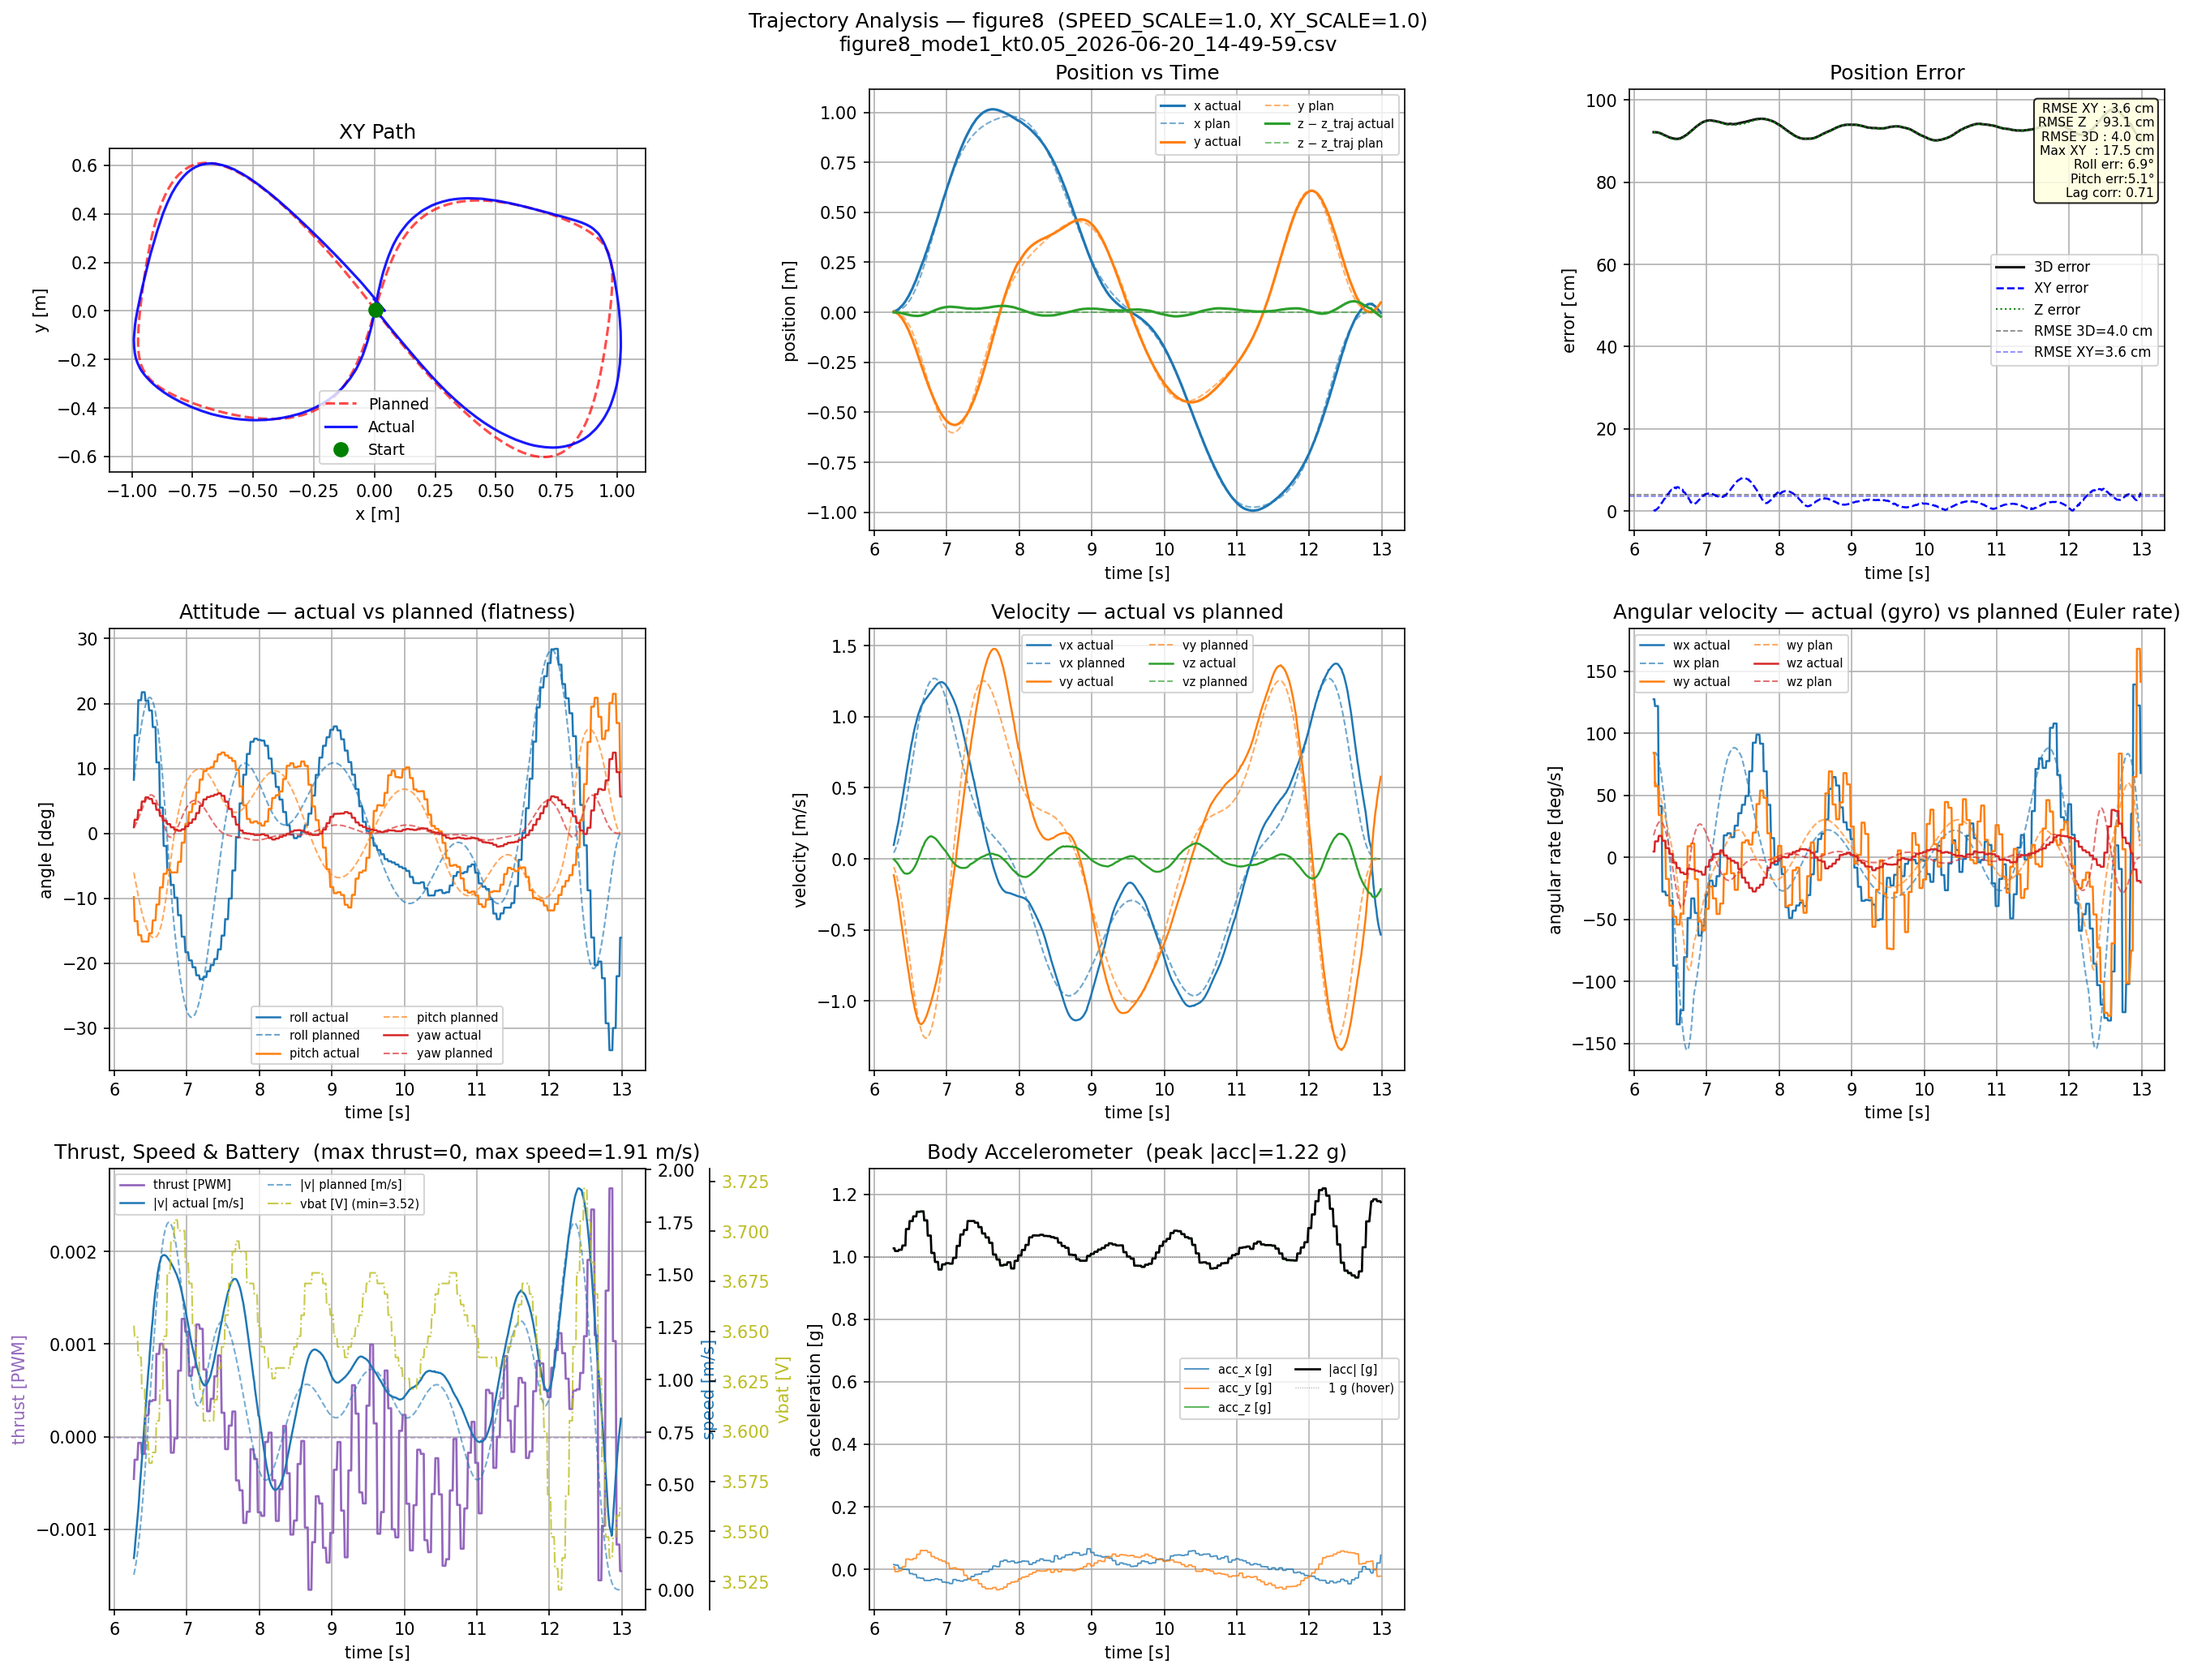
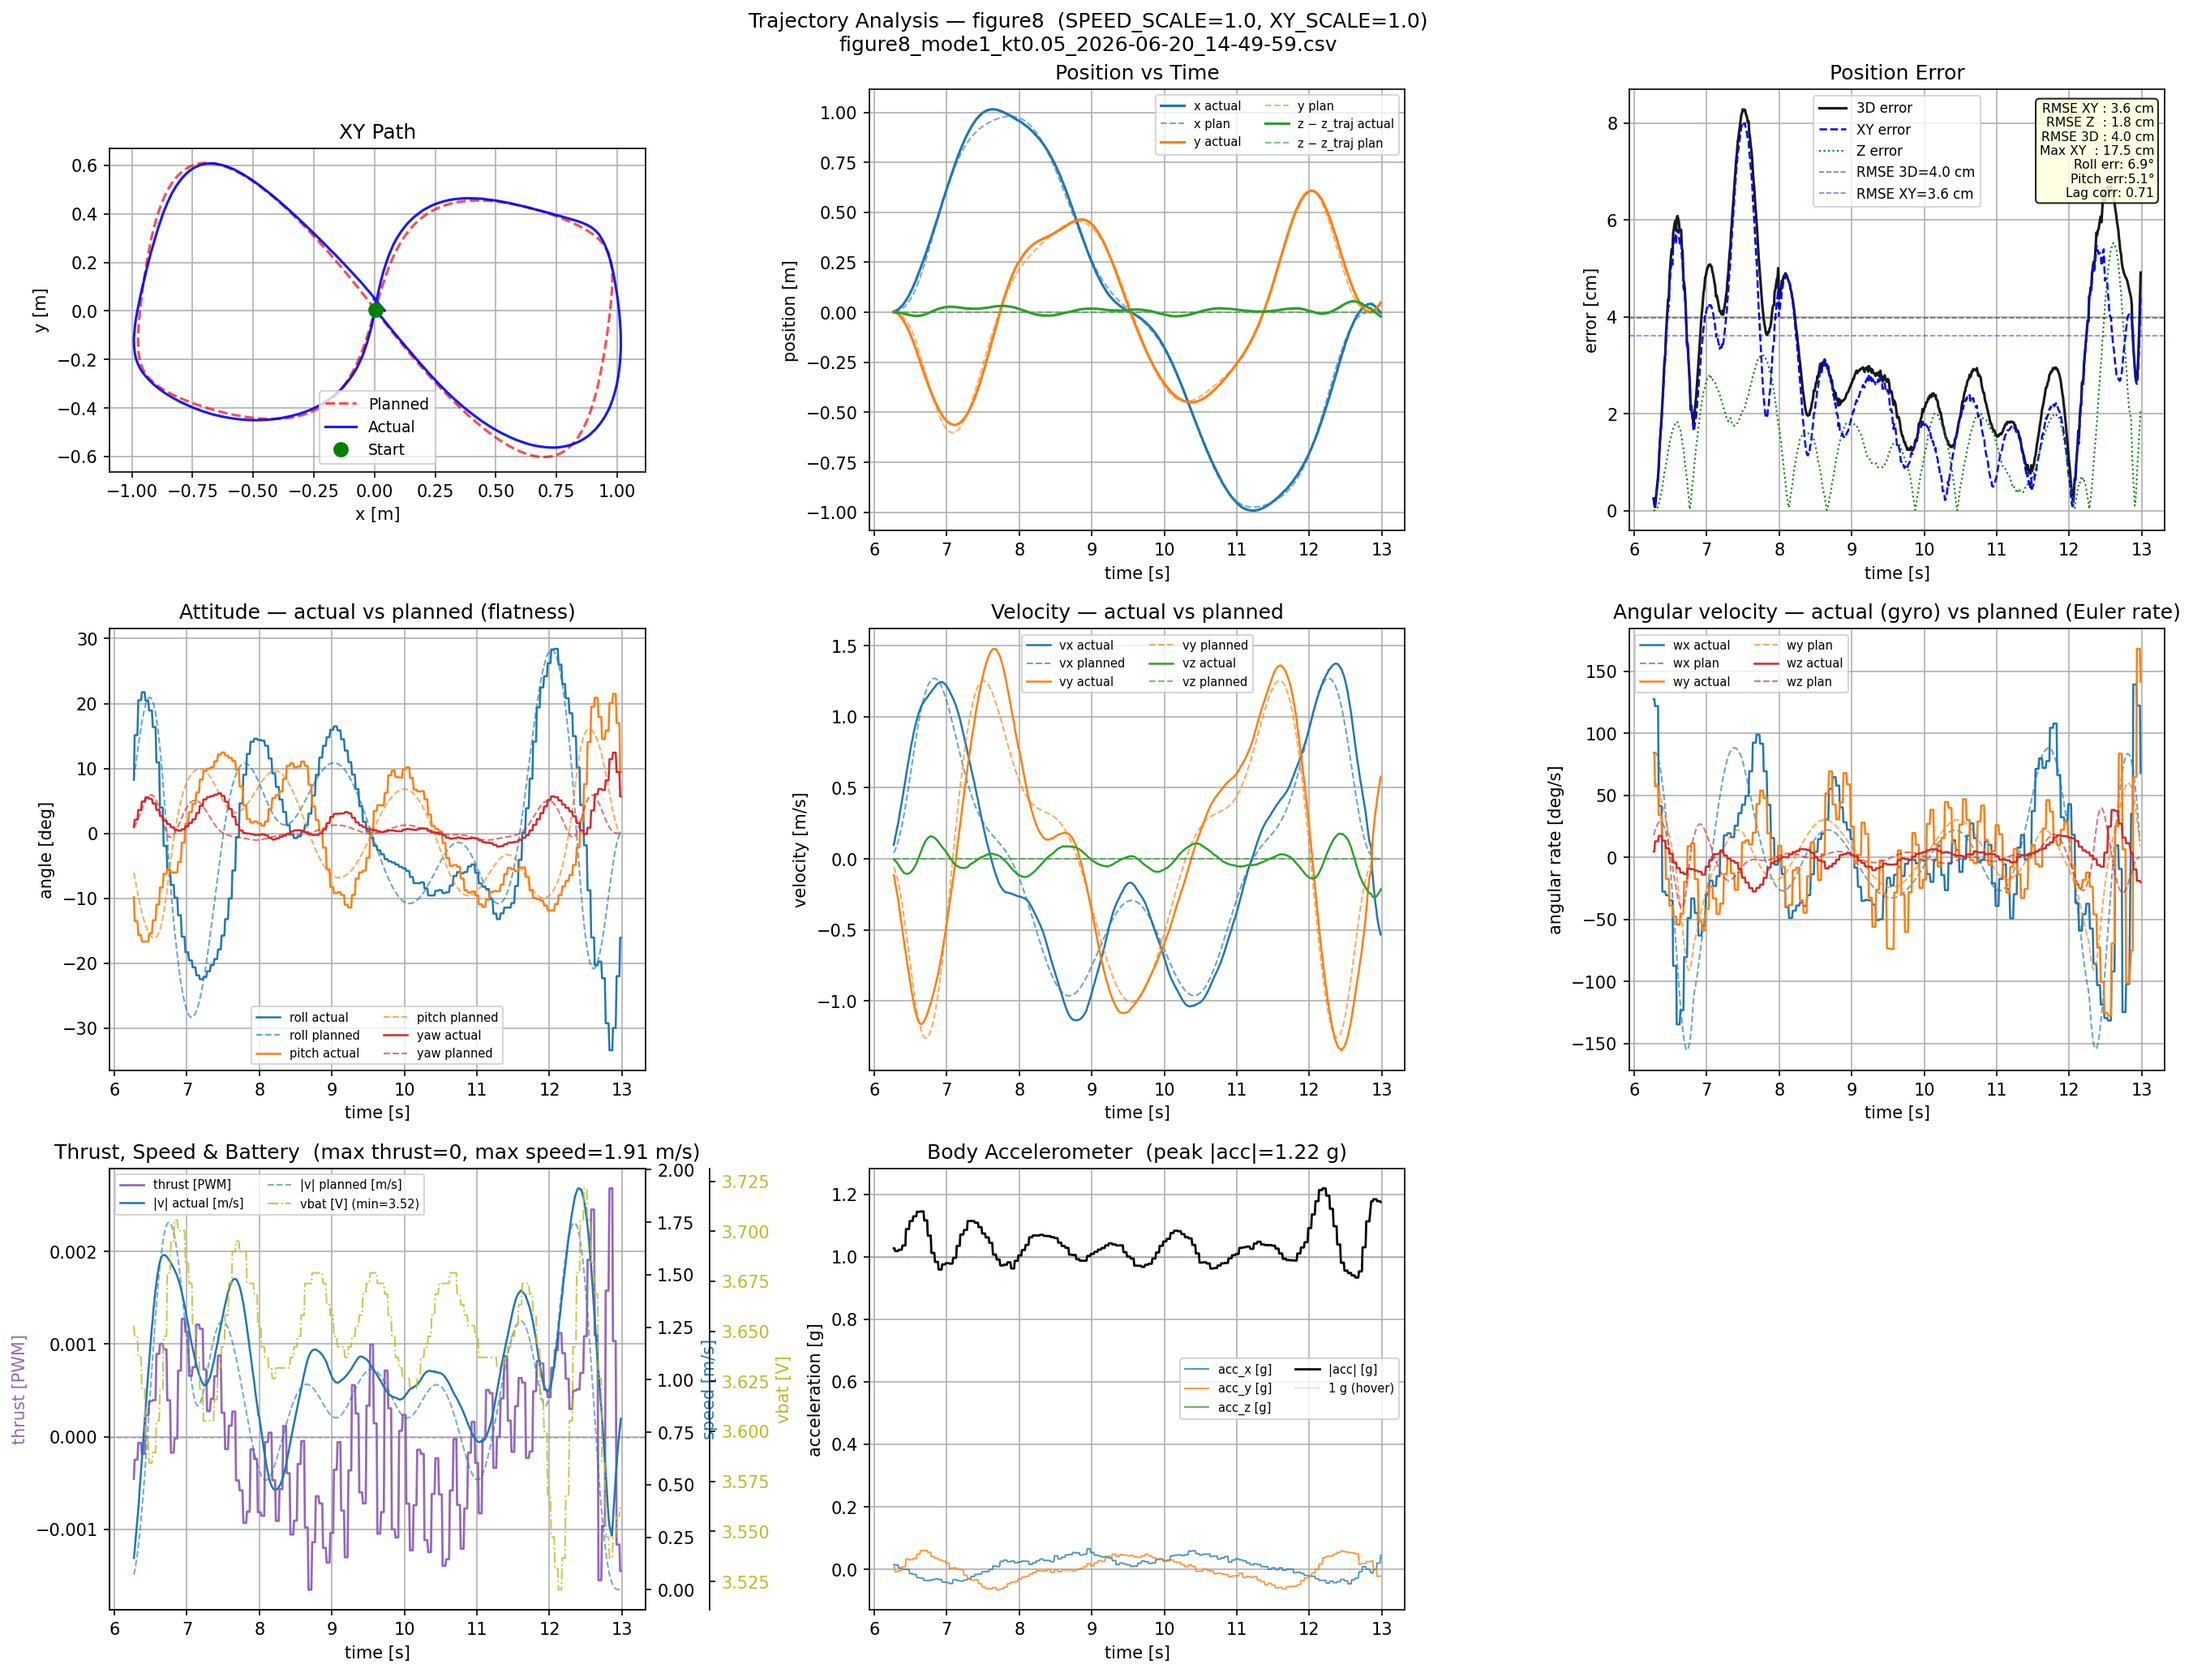
update doc

Changed region(s): [[0.7145, 0.062, 0.9941, 0.3102]]

diff --git a/Controls/analyze_flight.py b/Controls/analyze_flight.py
@@ -2135,14 +2135,18 @@ def load_csv_with_meta(path):
 
 # ── Metrics ─────────────────────────────────────────────────────────────────
 
-def compute_metrics(data, plan, plan_vel, planned_att_arr):
+def compute_metrics(data, plan, plan_vel, planned_att_arr, z0=None):
     """Return a dict of tracking quality metrics.
 
     Z error uses relative coordinates (poly4d is relative_position=True):
     err_z = |(z_actual − z_start) − pz_planned|
+
+    z0: trajectory-start height. If None, falls back to data["z"][0] (correct when
+    data is already cropped to the trajectory window; wrong for full-log data).
     """
     px, py, pz_rel = plan[:, 0], plan[:, 1], plan[:, 2]
-    z0 = data["z"][0]
+    if z0 is None:
+        z0 = data["z"][0]
     err_xy = np.sqrt((data["x"] - px) ** 2 + (data["y"] - py) ** 2)
     err_z  = np.abs((data["z"] - z0) - pz_rel)
     err_3d = np.sqrt(err_xy ** 2 + err_z ** 2)
@@ -3451,11 +3455,9 @@ def plot_analysis(
         _tstart_idx = 0
     z0_act = data["z"][_tstart_idx]
 
-    # Errors — Z uses relative coords (poly4d is relative_position=True).
-    # Shift data["z"] so z=0 at trajectory start to avoid inflated Z error trace
-    # on full-log window that includes takeoff/landing.
-    data_z_shifted = {**data, "z": data["z"] - z0_act}
-    m_full = compute_metrics(data_z_shifted, plan, plan_vel, planned_att)
+    # Pass z0_act explicitly so err_z is relative to trajectory-start height across
+    # the full log (including the pre-trajectory takeoff ramp).
+    m_full = compute_metrics(data, plan, plan_vel, planned_att, z0=z0_act)
     # Build the metrics dict used for display:
     #   - Scalar stats (RMSE, max, …) come from metrics_override (lap-window) when provided,
     #     so the plot box matches the printed comparison table exactly.

diff --git a/flying_drone_stack/docs/results_2026-06-20.md b/flying_drone_stack/docs/results_2026-06-20.md
@@ -179,35 +179,55 @@ This section documents the objective per-subplot findings for presentation and f
 
 ### 7e. INDI Inner Loop Dashboard (`_indi_dashboard.png`)
 
+**What this figure is**: A 3×3 overview of the INDI inner loop during the full flight. Each column is one body axis (X=roll, Y=pitch, Z=yaw). Source: `analyze_indi.py`.
+
 ![](figure8_mode1_kt0.05_2026-06-20_14-49-59_indi_dashboard.png)
 
-**Row 0 — Attitude** — Same as analysis panel 4; roll and pitch match the expected flight envelope. The INDI dashboard adds context: attitude is well-regulated and does not show oscillation, confirming the Routh stability margin (ζ=1.34 at these gains) is adequate.
+**Row 0 — Attitude (roll / pitch / yaw)** — Full-flight attitude time series from the EKF. Roll and pitch stay within the expected ±30° figure-8 envelope; no oscillation is visible, confirming the Routh stability margin (ζ=1.34) is adequate. The title shows RMS and peak values over the flight window.
 
-**Row 1 — INDI Torque (tau_x/y/z)** — Tau values during INDI-active flight are physically correct: RMS ~1.4 mNm (roll), ~0.8 mNm (pitch), ~0.2 mNm (yaw), peak ≤ 2.5 mNm — consistent with CF2.1 motor geometry. The log starts with a 2.7 s stale period (initial tau from the previous power-on, shaded orange) which is correctly excluded from all statistics by the analysis. After the stale period clears, peaks at the crossing-point turns correspond to the highest angular acceleration demand, and tau_z (yaw) remains much smaller than tau_x/y as expected. Saturation 0% across all axes — substantial headroom for gain increases.
+**Row 1 — INDI Commanded Torque (τ_x / τ_y / τ_z)** — The torque output of the INDI inner loop for each axis, in N·m. This is what the INDI law sends to the motor mixer every 500 Hz control cycle. The title shows the RMS over the valid flight window and the saturation percentage (how often tau hit the estimated motor torque limit).
+- The first ~2.7 s are shaded orange: this is a "stale tau" period where tau holds the value from the previous power-on and is not yet under active INDI control. All statistics exclude this period.
+- RMS values (≈1.4 / 0.8 / 0.2 mN·m for roll/pitch/yaw) are physically plausible for a 36 g drone.
+- Saturation = 0% — the INDI torque is well within motor capability; gains can be raised further.
+- Peaks at the crossing-point of the figure-8 correspond to the highest angular acceleration demand. tau_z (yaw) is much smaller than tau_x/y as expected (yaw demands during a figure-8 are minimal).
 
-**Row 2 — Angular Acceleration Filter (alp_raw vs alp)** — The fc_bw=70 Hz Butterworth shows essentially no noise reduction in amplitude (alp_raw and alp overlap almost perfectly, std≈10.6 rad/s² both). This is expected: the meaningful angular acceleration signal during figure-8 flight is mostly below 3 Hz (the figure-8 lobe frequency), while 70 Hz is still well above the signal content. The filter's main role is to suppress the gyro differentiation noise above 70 Hz which is hard to see at 20 Hz log rate — the filter IS working at the 500 Hz control rate, just invisible in the 20 Hz log.
+**Row 2 — Angular Acceleration Filter (alp_raw vs alp)** — Angular acceleration is computed by finite-differencing the gyro signal and then low-pass filtered at fc_bw=70 Hz. This row compares the raw (pre-filter) and filtered signals over the hover calibration window. The title shows noise reduction in dB and filter lag in ms.
+- `alp_raw` and `alp` overlap almost perfectly because the 20 Hz log rate cannot show the high-frequency noise that exists at the 500 Hz control rate — the filter IS attenuating above 70 Hz, it is simply invisible in a 20 Hz log.
+- The dB noise reduction number comes from comparing the power spectral density of alp_raw vs alp over the hover window.
+- Lag ≈ 2–3 ms at 70 Hz — negligible compared to the 40–50 ms motor response lag.
 
 ---
 
 ### 7f. INDI Alignment Panel (`_indi_panel.png`)
 
+**What this figure is**: A direct comparison of the torque the INDI law commanded (τ_cmd, orange) vs what the drone actually produced as measured via angular acceleration (J·α_meas, green). Tests the core INDI assumption that τ_prev ≈ J·α_meas. Source: `analyze_indi.py`.
+
 ![](figure8_mode1_kt0.05_2026-06-20_14-49-59_indi_panel.png)
 
-**tau_cmd vs J·α_meas (X, Y, Z)** — This panel tests the core INDI assumption: that the torque commanded in the previous step (tau_prev) equals J × alpha_meas in the current step. The absolute scale comparison between the two signals is not reliable (tau is logged in uncalibrated units), but the lag measurement is shape-based (cross-correlation) and scale-independent: the motor response lag is approximately 40–50 ms (tau leads J·alp by this amount), confirming the hardware ceiling identified during the gains sweep. Reducing this lag would require lower-inertia motors or a faster ESC protocol (e.g., DSHOT instead of PWM) — not achievable on CF2.1 standard hardware. The RMS delta (mismatch between commanded and measured torque) is the residual INDI error; the small value relative to the signal amplitude confirms INDI is closing the loop effectively despite the motor lag.
+**Rows 0–2 — τ_cmd vs J·α_meas for X (roll) / Y (pitch) / Z (yaw)**
+- Orange line = τ_cmd: torque commanded by INDI in the previous timestep (τ_prev).
+- Green line = J·α_meas: moment-of-inertia times the measured angular acceleration this timestep — what the drone actually did.
+- Shaded area = the difference (τ_cmd − J·α_meas), i.e. the INDI residual error.
+- **Lag** (title): the orange line leads the green by ~40–50 ms. This is the motor spin-up delay — motors take 40–50 ms to reach the commanded RPM, so angular acceleration lags the torque command by this amount. This is the fundamental hardware ceiling: reducing it would require DSHOT or brushless upgrade.
+- **r** (title): cross-correlation coefficient. r≈0.9 means the shapes match well despite the lag.
+- **RMS(delta)** (title): residual INDI error in mN·m. Small relative to signal amplitude — INDI is effectively compensating for disturbances despite the motor lag.
+- Note: the absolute scale difference between orange and green is not physically meaningful (τ is in firmware units while J·α is in N·m); lag and RMS delta are shape-based and scale-independent.
 
-**KT sanity row (thrust vs weight)** — RPM-derived total thrust vs weight confirms the kt1–kt4 identification is reasonable: at hover, Σkt·RPM² ≈ drone weight (36.4 × 9.81 = 357 mN). Any significant deviation here would indicate a KT calibration error that would undermine INDI's torque model.
+**Row 3 — KT Sanity Check (thrust vs weight)** — RPM-derived total thrust (Σkt·RPM²) compared against the drone's weight (36.4 g × 9.81 = 357 mN). At hover, total thrust should equal weight. The title reports the percentage deviation and flags if the kt calibration is outside ±15%. Any significant error here would undermine INDI's torque model since tau depends on the per-motor kt values.
 
 ---
 
 ### 7g. Linear Acceleration Comparison (`_indi_accel.png`)
 
+**What this figure is**: World-frame linear acceleration from two independent sources — the IMU (accelerometer rotated to world frame, gravity removed) vs the EKF (numerical derivative of velocity). Agreement validates that the IMU axis alignment and the EKF state are consistent. Source: `analyze_indi.py`.
+
 ![](figure8_mode1_kt0.05_2026-06-20_14-49-59_indi_accel.png)
 
-**X (forward)** — RMS gap = 0.43 m/s²: a_imu and a_ekf agree well in both sign and shape after the pitch sign convention fix. Residual gap is mostly high-frequency IMU noise and EKF smoothing (EKF uses a Kalman smoother that inherently low-passes the velocity estimate). Good X agreement confirms the drone's forward acceleration is being correctly captured by both the IMU rotation and the EKF velocity derivative.
+**X (forward)** — RMS gap = 0.43 m/s²: a_imu and a_ekf agree well in both sign and shape. Residual gap is mostly high-frequency IMU noise and EKF smoothing (the Kalman filter inherently low-passes the velocity estimate). Good X agreement confirms the drone's forward acceleration is correctly captured.
 
-**Y (left)** — RMS gap = 0.46 m/s²: similarly good agreement, slightly higher gap than X because Y demands more asymmetric acceleration at the lobe tips. The small residual confirms no significant IMU axis misalignment or scale-factor error in Y.
+**Y (left)** — RMS gap = 0.46 m/s²: similarly good agreement, slightly higher than X because Y demands more asymmetric acceleration at the lobe tips.
 
-**Z (up)** — RMS gap = 0.15 m/s²: the tightest agreement of all three axes, as expected (Z acceleration is dominated by the slowly varying thrust magnitude with little noise from body rotation). The near-zero mean gap confirms the gravity subtraction (az_b − 1 g) is correctly normalised — no accelerometer Z bias error.
+**Z (up)** — RMS gap = 0.15 m/s²: the tightest of the three axes, as expected. Z acceleration is dominated by the slowly varying thrust magnitude with little body-rotation noise. Near-zero mean gap confirms gravity subtraction (a_z_body − 1 g) is correctly normalised.
 
 ---
 
